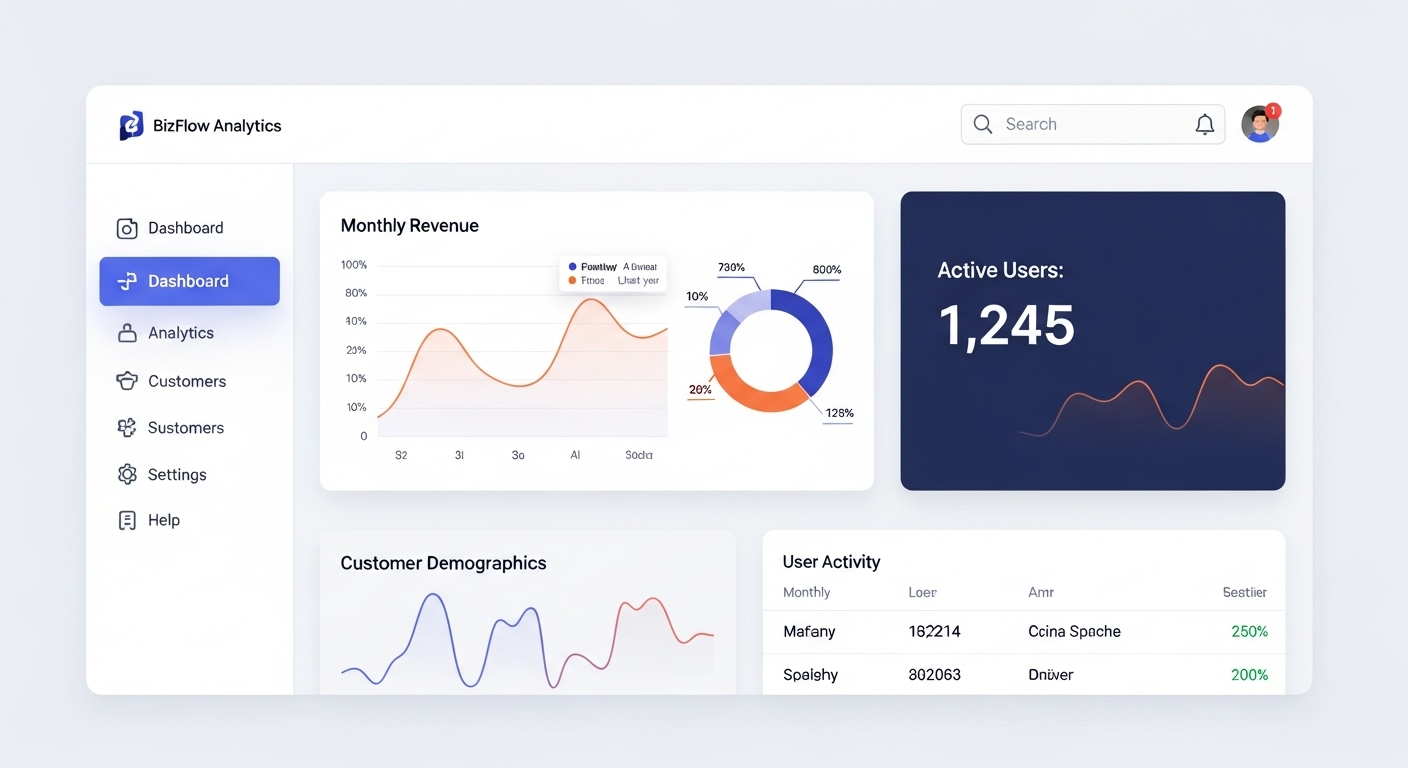
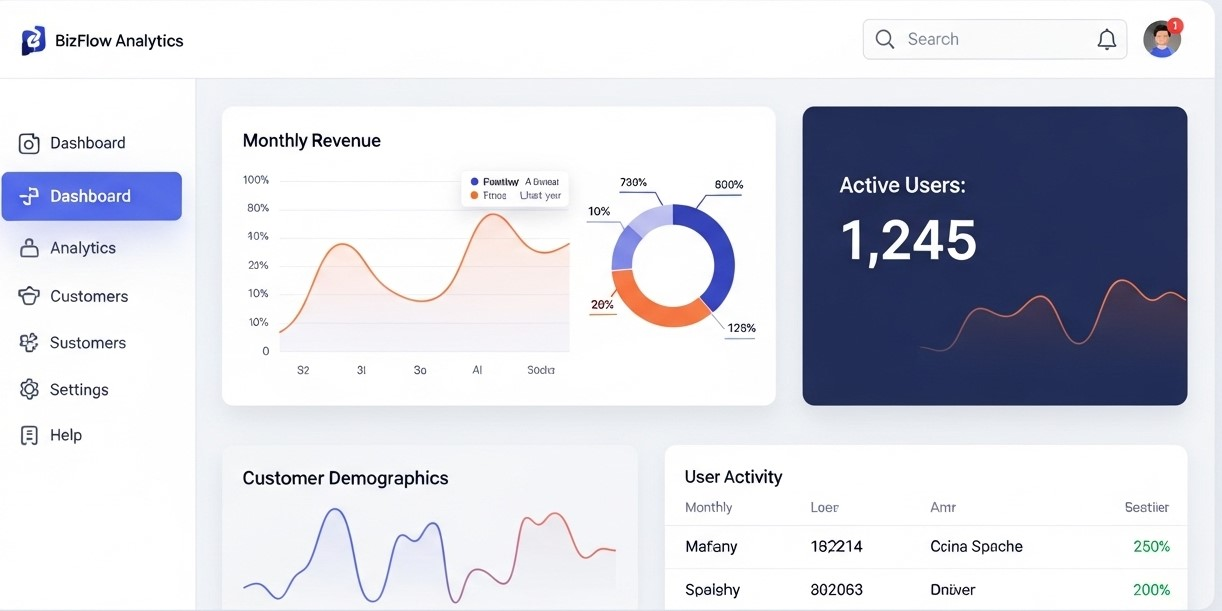
i updated the image for the web saas.jpg, clear the catched one away

diff --git a/src/app/services/page.tsx b/src/app/services/page.tsx
@@ -128,7 +128,7 @@ const serviceCategories = [
         id: "saas-development",
         title: "SaaS Development",
         description: "We build secure, scalable software-as-a-service platforms that empower businesses to deliver cloud-based products and services.",
-        imageUrl: "/web saas.jpg",
+        imageUrl: "/web saas.jpg?v=2",
         aiHint: "saas platform interface",
       },
       {
